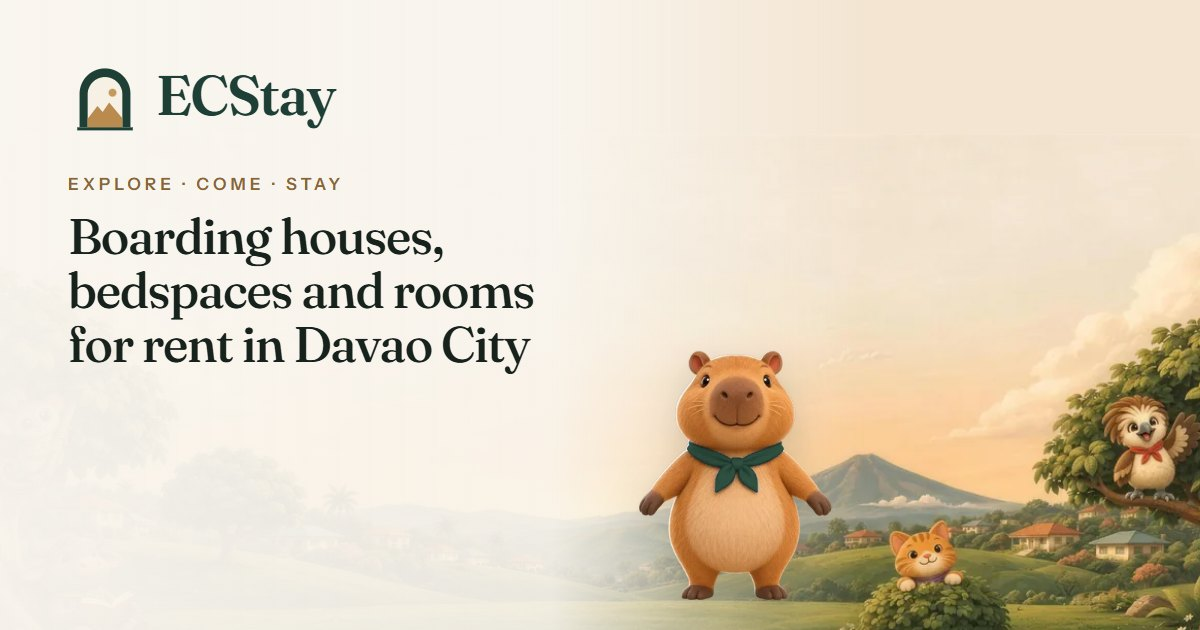
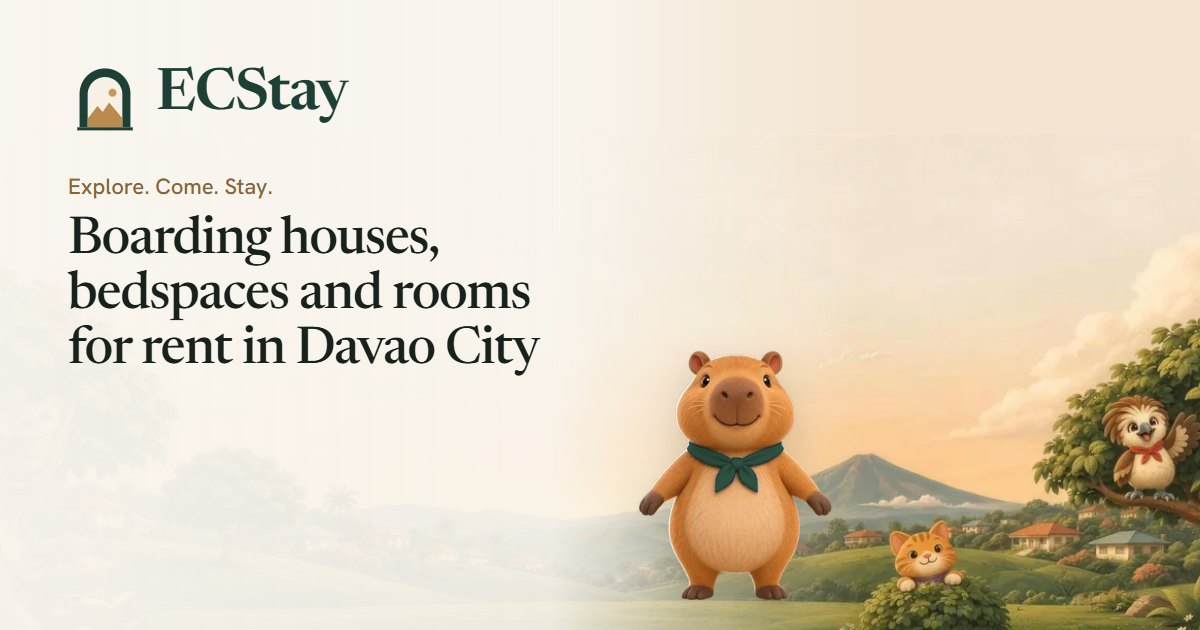
ECStay round 2: classic type, no template tells, leaner home page
- Fonts: Newsreader (close to the Tiempos family premium stay brands use) for headlines and the
  wordmark, Hanken Grotesk for everything else. Fraunces and Instrument Sans are gone.
- No spaced-out capital labels, no italic accent word, no italic speech bubble.
- Home: the popular-place cards and the questions block are removed (Carl: the search suggestions
  already list the places). The top band is room tabs, search and Kapi; the keyword H1 stays in
  the page for search engines and screen readers but is not shown.
- FAQPage data removed with the questions (it must match visible content); the answers stay in
  llms.txt for AI search tools.
- Share picture re-rendered in the new type; README and design guide updated.

Changed region(s): [[0.0617, 0.2714, 0.4625, 0.6032], [0.1233, 0.0905, 0.3083, 0.2111]]

diff --git a/assets/css/havn.css b/assets/css/havn.css
@@ -1,7 +1,8 @@
 /* ECStay — styles. Tokens follow design-system.SKILL.md. Mobile first. */
 :root {
   /* ECStay brand (Explore, Come, Stay). Research on premium stay brands (Aman, Mint House, Habyt, Zoku,
-     Blueground, Outsite): warm ivory pages, one deep colour, one metallic accent, a serif for headlines.
+     Blueground, Outsite): warm ivory pages, one deep colour, one metallic accent, a classic serif for headlines
+     (Newsreader, close to the Tiempos family Mint House uses) and a quiet grotesk for everything else.
      Ours: Mt Apo evergreen + golden-hour brass on ivory. */
   --evergreen: #1D3F35;
   --evergreen-dark: #132C25;
@@ -39,9 +40,9 @@
   --warm-border: #E8D3AE;
   --warm-text: #6B4A1C;
 
-  --font-serif: 'Fraunces', Georgia, 'Times New Roman', serif;
-  --font-display: 'Instrument Sans', system-ui, -apple-system, 'Segoe UI', sans-serif;
-  --font-body: 'Instrument Sans', system-ui, -apple-system, 'Segoe UI', sans-serif;
+  --font-serif: 'Newsreader', Georgia, 'Times New Roman', serif;
+  --font-display: 'Hanken Grotesk', system-ui, -apple-system, 'Segoe UI', sans-serif;
+  --font-body: 'Hanken Grotesk', system-ui, -apple-system, 'Segoe UI', sans-serif;
 
   --radius-sm: 6px;
   --radius-md: 10px;
@@ -409,21 +410,18 @@ img.ok { opacity: 1 !important; }
 .home { padding-bottom: calc(var(--nav-h) + 16px); }
 .home-wrap { padding: 0 16px; }
 /* Line icons in a soft round badge (rows, places) */
-.h-ic, .place-ic { flex: none; display: grid; place-items: center; border-radius: 50%; }
+.h-ic { flex: none; display: grid; place-items: center; border-radius: 50%; }
 .h-ic { width: 38px; height: 38px; background: var(--linen); color: var(--brass-text); }
 .h-ic .i { width: 19px; height: 19px; }
-.place-ic { width: 54px; height: 54px; background: #fff; color: var(--evergreen); box-shadow: 0 0 0 1px rgba(23, 34, 29, .06); transition: transform .25s var(--ease); }
-.place-ic .i { width: 24px; height: 24px; stroke-width: 1.4; }
 
 /* Top band: greeting (phones), search, tabs and Kapi the capybara. */
 .top { background: linear-gradient(180deg, var(--page) 0%, var(--linen) 100%); border-bottom: 1px solid var(--linen-line); }
 .top-in { position: relative; padding: 2px 16px 0; }
-.top-greet { min-height: 112px; padding: 8px 128px 0 0; }
-.top-greet h1 { margin-top: 10px; font: 500 24px/1.15 var(--font-serif); letter-spacing: -0.02em; color: var(--navy); text-wrap: balance; }
-.top-slogan, .eyebrow { display: inline-flex; align-items: center; gap: 10px; font: 600 11.5px/1 var(--font-body); letter-spacing: .22em; text-transform: uppercase; color: var(--brass-text); }
-.top-slogan { letter-spacing: .18em; font-size: 11px; }
+/* The keyword H1 is kept for search engines and screen readers but not shown (Carl, 11 Nov: search + Kapi only). */
+.top-greet { position: absolute !important; width: 1px; height: 1px; overflow: hidden; clip: rect(0 0 0 0); white-space: nowrap; }
+.top-greet h1 { margin-top: 4px; font: 500 25px/1.15 var(--font-serif); letter-spacing: -0.02em; color: var(--navy); text-wrap: balance; }
 .top-greet p { margin-top: 6px; font-size: 14px; color: var(--ink-2); }
-.top-search { position: relative; z-index: 3; margin-top: 12px; }
+.top-search { position: relative; z-index: 3; margin-top: 104px; }
 .top .search { margin: 0; }
 .top .sf-go { display: grid; place-items: center; flex: none; width: 48px; height: 48px; margin-left: 8px; border-radius: 12px; background: var(--blue); color: #fff; }
 .top .sf-go span { display: none; }
@@ -439,37 +437,19 @@ img.ok { opacity: 1 !important; }
 .capy.live .capy-still { opacity: 0 !important; } /* beats the global img.ok fade-in rule */
 .capy-bubble {
   position: absolute; z-index: 1; right: 78%; top: 6%; padding: 8px 12px; border-radius: 14px 14px 4px 14px; background: #fff;
-  box-shadow: 0 0 0 1px rgba(23, 34, 29, .06), 0 8px 22px rgba(23, 34, 29, .12); font: 500 italic 14px var(--font-serif); color: var(--navy); white-space: nowrap;
+  box-shadow: 0 0 0 1px rgba(23, 34, 29, .06), 0 8px 22px rgba(23, 34, 29, .12); font: 500 14px var(--font-body); color: var(--navy); white-space: nowrap;
   opacity: 0; transform: translateY(6px) scale(.9); transform-origin: 100% 100%; transition: opacity .25s, transform .3s var(--ease); pointer-events: none;
 }
 .capy.talk .capy-bubble { opacity: 1; transform: none; }
-@media (max-width: 1023px) { .capy-bubble { display: none; } }
+@media (max-width: 1023px) { .top .capy-bubble { opacity: 1; transform: none; right: 84%; top: 22%; } }
 
 
 .h-sec, .hrow { margin-top: 32px; }
 .h-head { display: flex; align-items: center; gap: 10px; margin-bottom: 14px; }
 .h-head h2 { font: 500 22px/1.2 var(--font-serif); letter-spacing: -0.02em; color: var(--navy); min-width: 0; }
 
-/* Popular places (malls, hospitals, offices) */
-.places { display: flex; gap: 12px; overflow-x: auto; scrollbar-width: none; margin: 0 -16px; padding: 2px 16px 8px; scroll-padding: 0 16px; scroll-snap-type: x proximity; }
-.places::-webkit-scrollbar { display: none; }
-.place-card {
-  flex: none; width: 262px; display: flex; align-items: center; gap: 14px; padding: 16px; border-radius: 18px;
-  background: var(--tint); color: var(--text); text-decoration: none; scroll-snap-align: start;
-  transition: transform .2s var(--ease), box-shadow .2s var(--ease);
-}
-.place-card span:not(.place-ic) { display: flex; flex-direction: column; min-width: 0; }
-.place-card b { font: 500 18px/1.2 var(--font-serif); letter-spacing: -0.01em; color: var(--navy); }
-.place-card small { margin-top: 2px; font-size: 12.5px; color: var(--ink-2); white-space: nowrap; overflow: hidden; text-overflow: ellipsis; }
-.place-card em { align-self: flex-start; margin-top: 8px; padding: 3px 10px; border-radius: 999px; background: rgba(255, 255, 255, .9); font: 600 12px var(--font-display); font-style: normal; color: var(--evergreen); }
-.place-card:active { transform: scale(.98); }
-@media (hover: hover) {
-  .place-card:hover { transform: translateY(-3px); box-shadow: 0 10px 24px rgba(23, 34, 29, .09); }
-  .place-card:hover .place-ic { transform: scale(1.06); }
-}
-
 /* Rows of rooms */
-.h-rows { margin-top: 32px; }
+.h-rows { margin-top: 28px; }
 .h-rows > .sample-note { margin-bottom: 0; }
 .hrow-all { display: inline-flex; align-items: center; gap: 4px; flex: none; padding: 6px 10px; border-radius: 999px; font: 600 13.5px var(--font-display); color: var(--blue); text-decoration: none; }
 .hrow-all:hover { background: var(--blue-light); }
@@ -486,16 +466,6 @@ img.ok { opacity: 1 !important; }
 .hrow-track .card-meta { white-space: nowrap; overflow: hidden; text-overflow: ellipsis; }
 
 
-/* Questions and answers (also FAQPage data in index.html) */
-.faq-list { display: grid; gap: 10px; max-width: 880px; }
-.faq-item { border: 1px solid var(--border); border-radius: 16px; background: #fff; }
-.faq-item[open] { border-color: var(--sand-line); background: linear-gradient(180deg, #fff, #FFFCF7); }
-.faq-item summary { display: flex; align-items: center; justify-content: space-between; gap: 12px; padding: 16px 18px; cursor: pointer; list-style: none; font: 500 18px/1.3 var(--font-serif); letter-spacing: -0.01em; color: var(--navy); }
-.faq-item summary::-webkit-details-marker { display: none; }
-.faq-item summary .i { flex: none; width: 18px; height: 18px; color: var(--brass-text); transition: transform .2s var(--ease); }
-.faq-item[open] summary .i { transform: rotate(90deg); }
-.faq-item summary:focus-visible { outline: 3px solid rgba(29, 63, 53, .45); outline-offset: 2px; border-radius: 14px; }
-.faq-item p { padding: 0 18px 18px; color: var(--ink-2); font-size: 15px; line-height: 1.6; max-width: 70ch; }
 .js .static-home { display: none; }
 .static-home { max-width: 860px; margin: 0 auto; padding: 24px 16px; }
 
@@ -508,8 +478,8 @@ img.ok { opacity: 1 !important; }
   box-shadow: 0 1px 2px rgba(23, 34, 29, .04), 0 28px 60px -28px rgba(23, 34, 29, .35);
 }
 .note-hi { margin-top: 14px; font: 500 32px/1.1 var(--font-serif); letter-spacing: -0.02em; color: var(--navy); }
-.note-text { margin-top: 12px; font: italic 400 20px/1.5 var(--font-serif); color: var(--ink-2); }
-.note-sign { margin-top: 20px; padding-top: 16px; border-top: 1px solid var(--linen-line); font: 600 12px/1.4 var(--font-body); letter-spacing: .16em; text-transform: uppercase; color: var(--brass-text); }
+.note-text { margin-top: 12px; font: 400 20px/1.5 var(--font-serif); color: var(--ink-2); }
+.note-sign { margin-top: 20px; padding-top: 16px; border-top: 1px solid var(--linen-line); font: 500 14.5px/1.4 var(--font-body); color: var(--muted); }
 .btn-lg { min-height: 56px; padding: 0 30px; font-size: 16px; border-radius: 999px; letter-spacing: .01em; }
 .btn-lg .i { width: 20px; height: 20px; }
 .btn-light { background: #fff; color: var(--navy); box-shadow: 0 2px 8px rgba(23, 34, 29, .12); }
@@ -523,7 +493,6 @@ img.ok { opacity: 1 !important; }
 .scene::after { content: ''; position: absolute; left: 0; right: 0; bottom: 0; height: 3px; background: var(--foot); z-index: 4; pointer-events: none; }
 .scene-copy { position: relative; z-index: 3; max-width: 900px; margin: 0 auto; padding: 44px 20px 0; text-align: center; }
 .scene-copy h2 { font: 500 38px/1.05 var(--font-serif); letter-spacing: -0.03em; color: var(--navy); text-wrap: balance; }
-.scene-copy h2 em { font-style: italic; color: var(--brass-text); }
 .scene-btns { display: flex; flex-wrap: wrap; justify-content: center; gap: 12px; margin-top: 22px; }
 .scene-sub { margin-top: 14px; font-size: 14.5px; color: var(--ink-2); }
 .scene-lead { margin-top: 10px; font-size: 16px; font-weight: 500; color: var(--ink-2); }
@@ -988,7 +957,6 @@ fieldset.field { border: 0; padding: 0; min-width: 0; }
 
 
 @media (min-width: 640px) {
-  .top-greet h1 { font-size: 26px; }
   .hrow-track .card { flex-basis: calc((100% - 16px) / 2.3); }
 }
 
@@ -1005,25 +973,17 @@ fieldset.field { border: 0; padding: 0; min-width: 0; }
 
   .home { padding-bottom: 0; }
   .home-wrap { padding: 0 clamp(24px, 4vw, 80px); }
-  .top-in { display: grid; grid-template-columns: minmax(0, 1fr) minmax(0, 880px) minmax(260px, 1fr); grid-template-rows: auto auto; align-items: center; min-height: 290px; padding: 0 clamp(24px, 4vw, 80px); }
-  .top-greet { grid-column: 2; grid-row: 1; align-self: end; min-height: 0; padding: 26px 0 18px; text-align: center; }
-  .top-greet h1 { margin-top: 14px; font-size: clamp(32px, 2.9vw, 46px); line-height: 1.1; }
-  .top-slogan { font-size: 12px; letter-spacing: .22em; }
-  .top-slogan::before, .top-slogan::after { content: ''; width: 18px; height: 1px; background: currentColor; opacity: .55; }
-  .top-search { grid-column: 2; grid-row: 2; align-self: start; margin: 0 0 34px; }
+  .top-in { display: grid; grid-template-columns: minmax(0, 1fr) minmax(0, 880px) minmax(260px, 1fr); grid-template-rows: auto; align-items: center; min-height: 250px; padding: 0 clamp(24px, 4vw, 80px); }
+  .top-search { grid-column: 2; grid-row: 1; align-self: center; margin: 0; }
   .top .search { height: 70px; max-width: none; border-radius: 16px; box-shadow: 0 2px 6px rgba(23, 34, 29, .05), 0 12px 32px rgba(23, 34, 29, .08); }
   .top .sf-go { width: auto; height: 100%; margin-left: 6px; display: inline-flex; gap: 8px; padding: 0 22px 0 18px; border-radius: 12px; font: 700 15px var(--font-display); }
   .top .sf-go span { display: inline; }
   .top .sf-go .i { width: 18px; height: 18px; }
-  .top .capy { grid-column: 3; grid-row: 1 / span 2; position: relative; right: auto; top: auto; align-self: end; justify-self: start; width: 300px; height: 280px; margin: 0 0 -14px -10px; }
+  .top .capy { grid-column: 3; grid-row: 1; position: relative; right: auto; top: auto; align-self: end; justify-self: start; width: 300px; height: 280px; margin: 0 0 -14px -10px; }
   .capy-bubble { right: 70%; top: 14%; font-size: 14px; padding: 9px 14px; }
 
   .h-sec, .hrow { margin-top: 48px; }
   .h-head h2 { font-size: 30px; }
-  .places { display: grid; grid-template-columns: repeat(4, minmax(0, 1fr)); gap: 16px; overflow: visible; margin: 0; padding: 2px 0 8px; }
-  .place-card { width: auto; padding: 20px; gap: 16px; }
-  .place-card .place-ic { width: 60px; height: 60px; }
-  .place-card b { font-size: 20px; }
   .h-rows { margin-top: 48px; }
   .hrow-nav { display: flex; }
   .hrow-nav[hidden] { display: none; }

diff --git a/assets/js/home.js b/assets/js/home.js
@@ -1,13 +1,11 @@
 /* ECStay — home page: room-type tabs + search (with Kapi the capybara), popular places,
- * rows of rooms, questions, Kapi's note and the closing scene. Line icons from the sprite in index.html. */
+ * rows of rooms, Kapi's note and the closing scene (the questions live in llms.txt). Line icons from the sprite in index.html. */
 (function () {
   var HV = (window.HomeView = {});
 
   // A line icon in a round badge.
   function ic(name, cls) { return '<span class="' + cls + '" aria-hidden="true">' + H.icon(name) + '</span>'; }
 
-  // ECStay tints: linen and a soft evergreen, alternating.
-  var TINTS = ['#EFE8DC', '#E4ECE6'];
   var KIND_ICON = { mall: 'bag', hospital: 'hospital', work: 'briefcase' };
 
   // Room types as tabs (header on computers, under the search on phones).
@@ -26,9 +24,6 @@
     }).join('') + '</nav>';
   };
 
-  // The places shown on the home page (all landmarks can be searched).
-  var POPULAR = ['gmall', 'sm-lanang', 'abreeza', 'nccc-vp', 'felcris', 'spmc', 'ddh', 'cybergate'];
-
   function rows() {
     var near = function (id) { var p = H.school(id); return { icon: p.kind ? KIND_ICON[p.kind] : 'cap', title: t('Rooms near {place}', { place: p.short }), s: { place: 'school:' + id }, school: id }; };
     return [
@@ -41,11 +36,9 @@
     ];
   }
 
-  function nearbyText(n) { return !n ? t('No rooms nearby yet') : n === 1 ? t('1 room nearby') : t('{n} rooms nearby', { n: n }); }
-
   function top(api) {
     return '<section class="top" aria-labelledby="top-t"><div class="top-in">' +
-      '<div class="top-greet"><p class="top-slogan">Explore · Come · Stay</p>' +
+      '<div class="top-greet">' +
         '<h1 id="top-t">' + H.esc(t('Boarding houses, bedspaces and rooms for rent in Davao City')) + '</h1></div>' +
       '<div class="top-search">' + api.searchHtml + '</div>' +
       HV.tabs(api, 'tabs-band') +
@@ -54,15 +47,6 @@
         '<img class="capy-still" src="/assets/capy/kapi.webp" width="360" height="360" alt="" fetchpriority="low">' +
       '</div>' +
     '</div></section>';
-  }
-
-  function places(api) {
-    return '<section class="h-sec" aria-labelledby="places-t"><div class="h-head"><h2 id="places-t">' + H.esc(t('Rooms near popular places in Davao')) + '</h2></div>' +
-      '<div class="places">' + POPULAR.map(function (id, i) {
-        var p = H.school(id), n = api.count({ place: 'school:' + id });
-        return '<a class="place-card" href="' + api.url({ place: 'school:' + id }) + '" data-link style="--tint:' + TINTS[i % TINTS.length] + '">' +
-          ic(KIND_ICON[p.kind], 'place-ic') + '<span><b>' + H.esc(p.short) + '</b><small>' + H.esc(p.name) + '</small><em>' + H.esc(nearbyText(n)) + '</em></span></a>';
-      }).join('') + '</div></section>';
   }
 
   function row(api, r, idx) {
@@ -78,22 +62,6 @@
     '</section>';
   }
 
-  /* Questions people ask before renting (also in index.html as FAQPage data for search and AI answers). */
-  var FAQ = [
-    ['What is ECStay?', 'ECStay is a website for finding boarding houses, bedspaces, shared rooms and studios for rent in Davao City. Each room shows photos, the monthly price, who can stay and its exact spot on the map.'],
-    ['Where in Davao can I find a room?', 'Rooms are listed across Davao City, including Poblacion, Bajada, Obrero, Matina, Ma-a, Buhangin and Mintal. You can search near schools like AdDU, UM, USeP, SPC, HCDC, DDC and UP Mindanao, or near places like Gmall, SM Lanang, Abreeza, SPMC and Robinsons Cybergate.'],
-    ['What kinds of rooms are listed?', 'Bedspaces, shared rooms, private rooms and studios. You can filter by monthly budget, female-only or male-only houses, aircon, own CR and Wi-Fi, and sort by price or distance.'],
-    ['How do I contact a landlord?', 'Open a room and tap Contact Landlord. ECStay writes the message for you, with the room, the price and your move-in month, then opens Messenger so you can send it.'],
-    ['How do I list my boarding house?', 'Tap List your place and fill in the short form: your name, phone number, where your place is and the kinds of rooms you have. The ECStay team will get back to you.'],
-    ['Are the rooms on ECStay real?', 'The rooms you see now are samples with stock photos, each marked Sample, while real boarding houses are being added.']
-  ];
-  function faq() {
-    return '<section class="h-sec faq" aria-labelledby="faq-t"><div class="h-head"><h2 id="faq-t">' + H.esc(t('Questions about renting a room in Davao')) + '</h2></div>' +
-      '<div class="faq-list">' + FAQ.map(function (x, i) {
-        return '<details class="faq-item"' + (i === 0 ? ' open' : '') + '><summary>' + H.esc(t(x[0])) + H.icon('chev-right') + '</summary><p>' + H.esc(t(x[1])) + '</p></details>';
-      }).join('') + '</div></section>';
-  }
-
   function kapiStill() {
     return '<img class="capy-still" src="/assets/capy/kapi.webp" width="360" height="360" alt="" loading="lazy">';
   }
@@ -104,7 +72,7 @@
         '<div class="note-card">' +
           '<h2 id="note-t" class="note-hi">' + H.esc(t('Hi, I\'m Kapi!')) + '</h2>' +
           '<p class="note-text">' + H.esc(t('Tell me where you study, work or shop, and I\'ll show you rooms nearby, with photos, the price and the exact spot on the map.')) + '</p>' +
-          '<p class="note-sign">Kapi · ' + H.esc(t('Your ECStay concierge')) + '</p>' +
+          '<p class="note-sign">— Kapi, ' + H.esc(t('your ECStay concierge')) + '</p>' +
         '</div>' +
         '<button type="button" class="btn btn-primary btn-lg" data-find>' + H.icon('search') + '<span>' + H.esc(t('Start searching')) + '</span></button>' +
       '</div>' +
@@ -121,7 +89,7 @@
         '<div class="capy capy-jump" data-capy="jump">' + kapiStill() + '</div>' +
       '</div>' +
       '<div class="scene-copy">' +
-        '<h2 id="scene-t">Explore. Come. <em>Stay.</em></h2>' +
+        '<h2 id="scene-t">Explore. Come. Stay.</h2>' +
         '<p class="scene-lead">' + H.esc(t('Rooms and bedspaces in Davao, near malls, offices and schools.')) + '</p>' +
         '<div class="scene-btns">' +
           '<a class="btn btn-primary btn-lg" href="/rooms" data-link>' + H.esc(t('Find a room')) + '</a>' +
@@ -135,9 +103,7 @@
   HV.render = function (host, api) {
     host.innerHTML = '<div class="home">' + top(api) +
       '<div class="home-wrap">' +
-        places(api) +
         '<div class="h-rows">' + api.sampleNote + rows().map(function (r, i) { return row(api, r, i); }).join('') + '</div>' +
-        faq() +
       '</div>' +
       kapiNote() + scene() + api.footScene +
     '</div>';

diff --git a/index.html b/index.html
@@ -28,7 +28,7 @@
   <link rel="preconnect" href="https://fonts.googleapis.com">
   <link rel="preconnect" href="https://fonts.gstatic.com" crossorigin>
   <link rel="preconnect" href="https://tiles.openfreemap.org" crossorigin>
-  <link rel="stylesheet" href="https://fonts.googleapis.com/css2?family=Fraunces:ital,opsz,wght@0,9..144,400..700;1,9..144,400..600&family=Instrument+Sans:wght@400..700&display=swap">
+  <link rel="stylesheet" href="https://fonts.googleapis.com/css2?family=Hanken+Grotesk:wght@400..700&family=Newsreader:ital,opsz,wght@0,6..72,400..700;1,6..72,400..600&display=swap">
   <script>document.documentElement.className += ' js';</script>
   <link rel="stylesheet" href="/assets/css/havn.css">
   <!-- three.js for Kapi, the 3D capybara on the home page (loaded only there, after the page is ready). -->
@@ -43,7 +43,6 @@
   <script src="/assets/js/app.js" defer></script>
   <script type="application/ld+json">{"@context": "https://schema.org", "@type": "Organization", "@id": "https://www.havnph.com/#org", "name": "ECStay", "alternateName": ["ECStay Davao", "Havn PH"], "url": "https://www.havnph.com/", "logo": "https://www.havnph.com/assets/brand/ecstay-512.png", "slogan": "Explore. Come. Stay.", "description": "ECStay helps students and workers find boarding houses, bedspaces and rooms for rent in Davao City, Philippines.", "areaServed": {"@type": "City", "name": "Davao City", "containedInPlace": {"@type": "Country", "name": "Philippines"}}}</script>
   <script type="application/ld+json">{"@context": "https://schema.org", "@type": "WebSite", "@id": "https://www.havnph.com/#site", "name": "ECStay", "url": "https://www.havnph.com/", "inLanguage": ["en", "tl", "ceb"], "publisher": {"@id": "https://www.havnph.com/#org"}, "potentialAction": {"@type": "SearchAction", "target": {"@type": "EntryPoint", "urlTemplate": "https://www.havnph.com/rooms?q={search_term_string}"}, "query-input": "required name=search_term_string"}}</script>
-  <script type="application/ld+json">{"@context": "https://schema.org", "@type": "FAQPage", "mainEntity": [{"@type": "Question", "name": "What is ECStay?", "acceptedAnswer": {"@type": "Answer", "text": "ECStay is a website for finding boarding houses, bedspaces, shared rooms and studios for rent in Davao City. Each room shows photos, the monthly price, who can stay and its exact spot on the map."}}, {"@type": "Question", "name": "Where in Davao can I find a room?", "acceptedAnswer": {"@type": "Answer", "text": "Rooms are listed across Davao City, including Poblacion, Bajada, Obrero, Matina, Ma-a, Buhangin and Mintal. You can search near schools like AdDU, UM, USeP, SPC, HCDC, DDC and UP Mindanao, or near places like Gmall, SM Lanang, Abreeza, SPMC and Robinsons Cybergate."}}, {"@type": "Question", "name": "What kinds of rooms are listed?", "acceptedAnswer": {"@type": "Answer", "text": "Bedspaces, shared rooms, private rooms and studios. You can filter by monthly budget, female-only or male-only houses, aircon, own CR and Wi-Fi, and sort by price or distance."}}, {"@type": "Question", "name": "How do I contact a landlord?", "acceptedAnswer": {"@type": "Answer", "text": "Open a room and tap Contact Landlord. ECStay writes the message for you, with the room, the price and your move-in month, then opens Messenger so you can send it."}}, {"@type": "Question", "name": "How do I list my boarding house?", "acceptedAnswer": {"@type": "Answer", "text": "Tap List your place and fill in the short form: your name, phone number, where your place is and the kinds of rooms you have. The ECStay team will get back to you."}}, {"@type": "Question", "name": "Are the rooms on ECStay real?", "acceptedAnswer": {"@type": "Answer", "text": "The rooms you see now are samples with stock photos, each marked Sample, while real boarding houses are being added."}}]}</script>
 </head>
 <body>
   <!-- Icons: most are from Lucide (https://lucide.dev), ISC License.
@@ -134,20 +133,7 @@
         <li><a href="/rooms?near=ddh">Rooms near Davao Doctors Hospital</a></li>
         <li><a href="/rooms?near=cybergate">Rooms near Robinsons Cybergate</a></li>
       </ul>
-      <h2>Questions about renting a room in Davao</h2>
-      <h3>What is ECStay?</h3>
-      <p>ECStay is a website for finding boarding houses, bedspaces, shared rooms and studios for rent in Davao City. Each room shows photos, the monthly price, who can stay and its exact spot on the map.</p>
-      <h3>Where in Davao can I find a room?</h3>
-      <p>Rooms are listed across Davao City, including Poblacion, Bajada, Obrero, Matina, Ma-a, Buhangin and Mintal. You can search near schools like AdDU, UM, USeP, SPC, HCDC, DDC and UP Mindanao, or near places like Gmall, SM Lanang, Abreeza, SPMC and Robinsons Cybergate.</p>
-      <h3>What kinds of rooms are listed?</h3>
-      <p>Bedspaces, shared rooms, private rooms and studios. You can filter by monthly budget, female-only or male-only houses, aircon, own CR and Wi-Fi, and sort by price or distance.</p>
-      <h3>How do I contact a landlord?</h3>
-      <p>Open a room and tap Contact Landlord. ECStay writes the message for you, with the room, the price and your move-in month, then opens Messenger so you can send it.</p>
-      <h3>How do I list my boarding house?</h3>
-      <p>Tap List your place and fill in the short form: your name, phone number, where your place is and the kinds of rooms you have. The ECStay team will get back to you.</p>
-      <h3>Are the rooms on ECStay real?</h3>
-      <p>The rooms you see now are samples with stock photos, each marked Sample, while real boarding houses are being added.</p>
-    </div>
+      </div>
     <noscript><p class="noscript">ECStay needs JavaScript to show rooms and the map.</p></noscript>
   </main>
   <nav class="bottom-nav" id="bottom-nav" aria-label="Sections"></nav>

diff --git a/assets/js/i18n.js b/assets/js/i18n.js
@@ -106,7 +106,7 @@
       'Kapi and friends were made for ECStay.': 'Ginawa para sa ECStay sina Kapi at ang mga kaibigan niya.',
       'Rooms and bedspaces in Davao, near malls, offices and schools.': 'Mga kwarto at bedspace sa Davao, malapit sa mall, opisina at school.',
       'Rooms and bedspaces in Davao': 'Mga kwarto at bedspace sa Davao',
-      'Your ECStay concierge': 'Ang iyong concierge sa ECStay',
+      'your ECStay concierge': 'ang iyong concierge sa ECStay',
       'Boarding houses, bedspaces and rooms for rent in Davao City': 'Mga boarding house, bedspace at kwartong paupahan sa Davao City',
       'Rooms near popular places in Davao': 'Mga kwarto malapit sa mga sikat na lugar sa Davao',
       'Questions about renting a room in Davao': 'Mga tanong tungkol sa pag-upa ng kwarto sa Davao',
@@ -228,7 +228,7 @@
       'Kapi and friends were made for ECStay.': 'Gihimo para sa ECStay si Kapi ug ang iyang mga higala.',
       'Rooms and bedspaces in Davao, near malls, offices and schools.': 'Mga kwarto ug bedspace sa Davao, duol sa mall, opisina ug school.',
       'Rooms and bedspaces in Davao': 'Mga kwarto ug bedspace sa Davao',
-      'Your ECStay concierge': 'Imong concierge sa ECStay',
+      'your ECStay concierge': 'imong concierge sa ECStay',
       'Boarding houses, bedspaces and rooms for rent in Davao City': 'Mga boarding house, bedspace ug kwartong paabangan sa Davao City',
       'Rooms near popular places in Davao': 'Mga kwarto duol sa mga sikat nga lugar sa Davao',
       'Questions about renting a room in Davao': 'Mga pangutana bahin sa pag-abang og kwarto sa Davao',

diff --git a/README.md b/README.md
@@ -7,7 +7,7 @@ Plain HTML, CSS and JavaScript. No build step.
 - `index.html`: the page shell
 - `assets/js/data.js`: **all rooms, schools, landmarks (malls, hospitals, offices) and settings** (edit this to add or change a room)
 - `assets/js/app.js`: rooms list (`/rooms`), search, filters, saved rooms, routing
-- `assets/js/home.js`: the home page (`/`): room-type tabs + big search with Kapi the capybara, popular places, rows of rooms, questions, Kapi's note, the closing scene
+- `assets/js/home.js`: the home page (`/`): room-type tabs + big search with Kapi the capybara, popular places, rows of rooms, Kapi's note, the closing scene
 - `assets/js/capy.js` + `assets/capy/`: Kapi, the moving 3D capybara (three.js, loaded only on the home page; `kapi.webp` is the still picture shown first and on slow connections). Three Kapis: next to the search (`data-capy="stand"`), leaning in beside his note (`peek`) and hopping in the closing scene (`jump`); they share one model file.
 - `assets/scene/`: the closing scene, one picture (davao-golden-*.webp): Davao and Mt Apo at golden hour with Kapi's friends painted in (tarsier on the tree, carabao reading, kitten behind the bush, eagle chick on a branch), made with Higgsfield. Its bottom edge fades into the footer colour `--foot`; its top row is `--sky`. The 3D Kapi hops on the grass; the picture rises with a parallax as you scroll.
 - `assets/js/room.js`: the room page (photos, details, map, Contact Landlord)
@@ -47,18 +47,18 @@ Sample listings use free stock photos (rawpixel and StockSnap, CC0; Unsplash Lic
 
 Map + list, filter chips, a heart to save and price markers are common patterns on many rental and property sites. Nothing here is taken from another company: no logos, brand colours, fonts, icons, photos, code or wording. Keep it that way:
 
-- Colours: ECStay evergreen, brass and ivory (see below). Fonts: Fraunces + Instrument Sans (Google Fonts, OFL). Icons: Lucide line icons (ISC, credited in `index.html`).
+- Colours: ECStay evergreen, brass and ivory (see below). Fonts: Newsreader + Hanken Grotesk (Google Fonts, OFL). Icons: Lucide line icons (ISC, credited in `index.html`).
 - Map price pins are evergreen tags (brass when picked) whose tail points at the exact spot. The search bar is a rounded rectangle with a labelled "Search" button. Card photos are 3:2. The room page shows 3 photos and a "See all N photos" button.
-- The home page has room-type tabs with line icons, a big search and our own mascot (Kapi the capybara, made with Higgsfield/Meshy, in an evergreen bandana as the ECStay concierge), then popular places as linen and sage cards and rows of rooms.
+- The home page has room-type tabs with line icons, a big search and our own mascot (Kapi the capybara, made with Higgsfield/Meshy, in an evergreen bandana as the ECStay concierge), then rows of rooms (places are picked from the search suggestions).
 - Write our own words. Don't copy another site's phrases, and don't name other companies in the code or on the site.
 
 ## Brand and search
 
 - Brand: **ECStay** = Explore, Come, Stay (Carl, 11 Nov 2026; before that Kapibahay for a day, and Havn PH). Line: "Explore. Come. Stay."
 - Look (from research on premium stay brands): warm ivory pages, one deep colour, one metallic accent, a serif for headlines. Evergreen `#1D3F35` (Mt Apo forests: buttons, links, pins), brass `#B98B4E` / `#8A6431` for small text (golden hour: eyebrows, accents), ivory `#F9F6F0`, linen `#EFE8DC`, ink `#17221D`, footer `#1C2A21`. Tokens at the top of `havn.css`; older names (`--blue`, `--navy`, `--kapi`) point at the new colours.
-- Type: Fraunces (headlines, wordmark, Kapi's note in italic) + Instrument Sans (everything else). Buttons are pills; line icons at 1.6 stroke.
-- Logo: `assets/brand/ecstay-mark.svg` (an arched doorway looking out at Mt Apo and the sun) + the wordmark "ECStay" set in Fraunces 600; `ecstay-mark-light.svg` for the dark footer. Icons: `apple-touch-icon.png`, `ecstay-512.png`.
+- Type: Newsreader (headlines, wordmark, Kapi's note) + Hanken Grotesk (everything else). No spaced-out capital labels, no italic accent words. Buttons are pills; line icons at 1.6 stroke.
+- Logo: `assets/brand/ecstay-mark.svg` (an arched doorway looking out at Mt Apo and the sun) + the wordmark "ECStay" set in Newsreader 600; `ecstay-mark-light.svg` for the dark footer. Icons: `apple-touch-icon.png`, `ecstay-512.png`.
 - Keep the home H1 a keyword sentence ("Boarding houses, bedspaces and rooms for rent in Davao City"); the slogan sits above it, never in its place.
-- `index.html` carries Organization, WebSite (search box) and FAQPage data, plus a plain-HTML copy of the home content for crawlers that do not run JavaScript (hidden once the app loads). Keep the FAQ there, in `home.js` and in `llms.txt` the same.
+- `index.html` carries Organization and WebSite (search box) data, plus a plain-HTML copy of the home content for crawlers that do not run JavaScript (hidden once the app loads). The questions and answers live only in `llms.txt` (Carl took them off the home page on 11 Nov; FAQPage data must match visible content, so it was removed too).
 - `llms.txt` describes the site for AI search tools. `assets/og.jpg` is the share picture.
-- When real rooms replace the samples, update the last FAQ answer ("Are the rooms on ECStay real?") in all three places.
+- When real rooms replace the samples, update the last answer ("Are the rooms on ECStay real?") in `llms.txt`.

diff --git a/design-system.SKILL.md b/design-system.SKILL.md
@@ -13,7 +13,7 @@ ECStay (Explore, Come, Stay) is a boarding house, bedspace and room finder for s
 - **Line**: "Explore. Come. Stay." (English in every language)
 - **Target users**: students near UM, AdDU, USeP, SPC, HCDC, and young workers near malls, hospitals and offices
 - **Tone**: calm, warm, helpful. Premium, never stiff.
-- **Logo**: `assets/brand/ecstay-mark.svg` (an arched doorway looking out at Mt Apo and the sun) + the wordmark "ECStay" in Fraunces 600, evergreen. On dark backgrounds use `ecstay-mark-light.svg` and an ivory wordmark.
+- **Logo**: `assets/brand/ecstay-mark.svg` (an arched doorway looking out at Mt Apo and the sun) + the wordmark "ECStay" in Newsreader 600, evergreen. On dark backgrounds use `ecstay-mark-light.svg` and an ivory wordmark.
 
 ## Color Palette
 
@@ -46,16 +46,16 @@ Older token names (`--blue`, `--navy`, `--kapi`, `--sand`) are kept and point at
 
 ```css
 :root {
-  --font-serif:   'Fraunces', Georgia, serif;          /* Headlines, wordmark, section titles, Kapi's note (italic) */
-  --font-display: 'Instrument Sans', system-ui, sans-serif; /* Buttons, labels, chips */
-  --font-body:    'Instrument Sans', system-ui, sans-serif; /* Body text */
+  --font-serif:   'Newsreader', Georgia, serif;           /* Headlines, wordmark, section titles, Kapi's note */
+  --font-display: 'Hanken Grotesk', system-ui, sans-serif; /* Buttons, labels, chips */
+  --font-body:    'Hanken Grotesk', system-ui, sans-serif; /* Body text */
 }
 ```
 
-- Headlines: Fraunces 500, letter-spacing -0.015em to -0.03em.
-- Eyebrows (small labels above headlines): Instrument Sans 600, 11-12px, uppercase, letter-spacing .18-.22em, `--brass-text`.
+- Headlines: Newsreader 500, letter-spacing -0.015em to -0.03em.
+- Avoid template tells (Carl, 11 Nov: "looks AI generated"): no Fraunces/Instrument fonts, no spaced-out uppercase eyebrows with dashes, no italic accent word in a second colour.
 - Prices and numbers stay in Instrument Sans.
-- The home H1 is always the keyword sentence ("Boarding houses, bedspaces and rooms for rent in Davao City"); the line "Explore · Come · Stay" sits above it as an eyebrow.
+- The home H1 is always the keyword sentence ("Boarding houses, bedspaces and rooms for rent in Davao City"). The line "Explore. Come. Stay." is the closing scene's headline.
 
 ## Spacing & Layout
 
